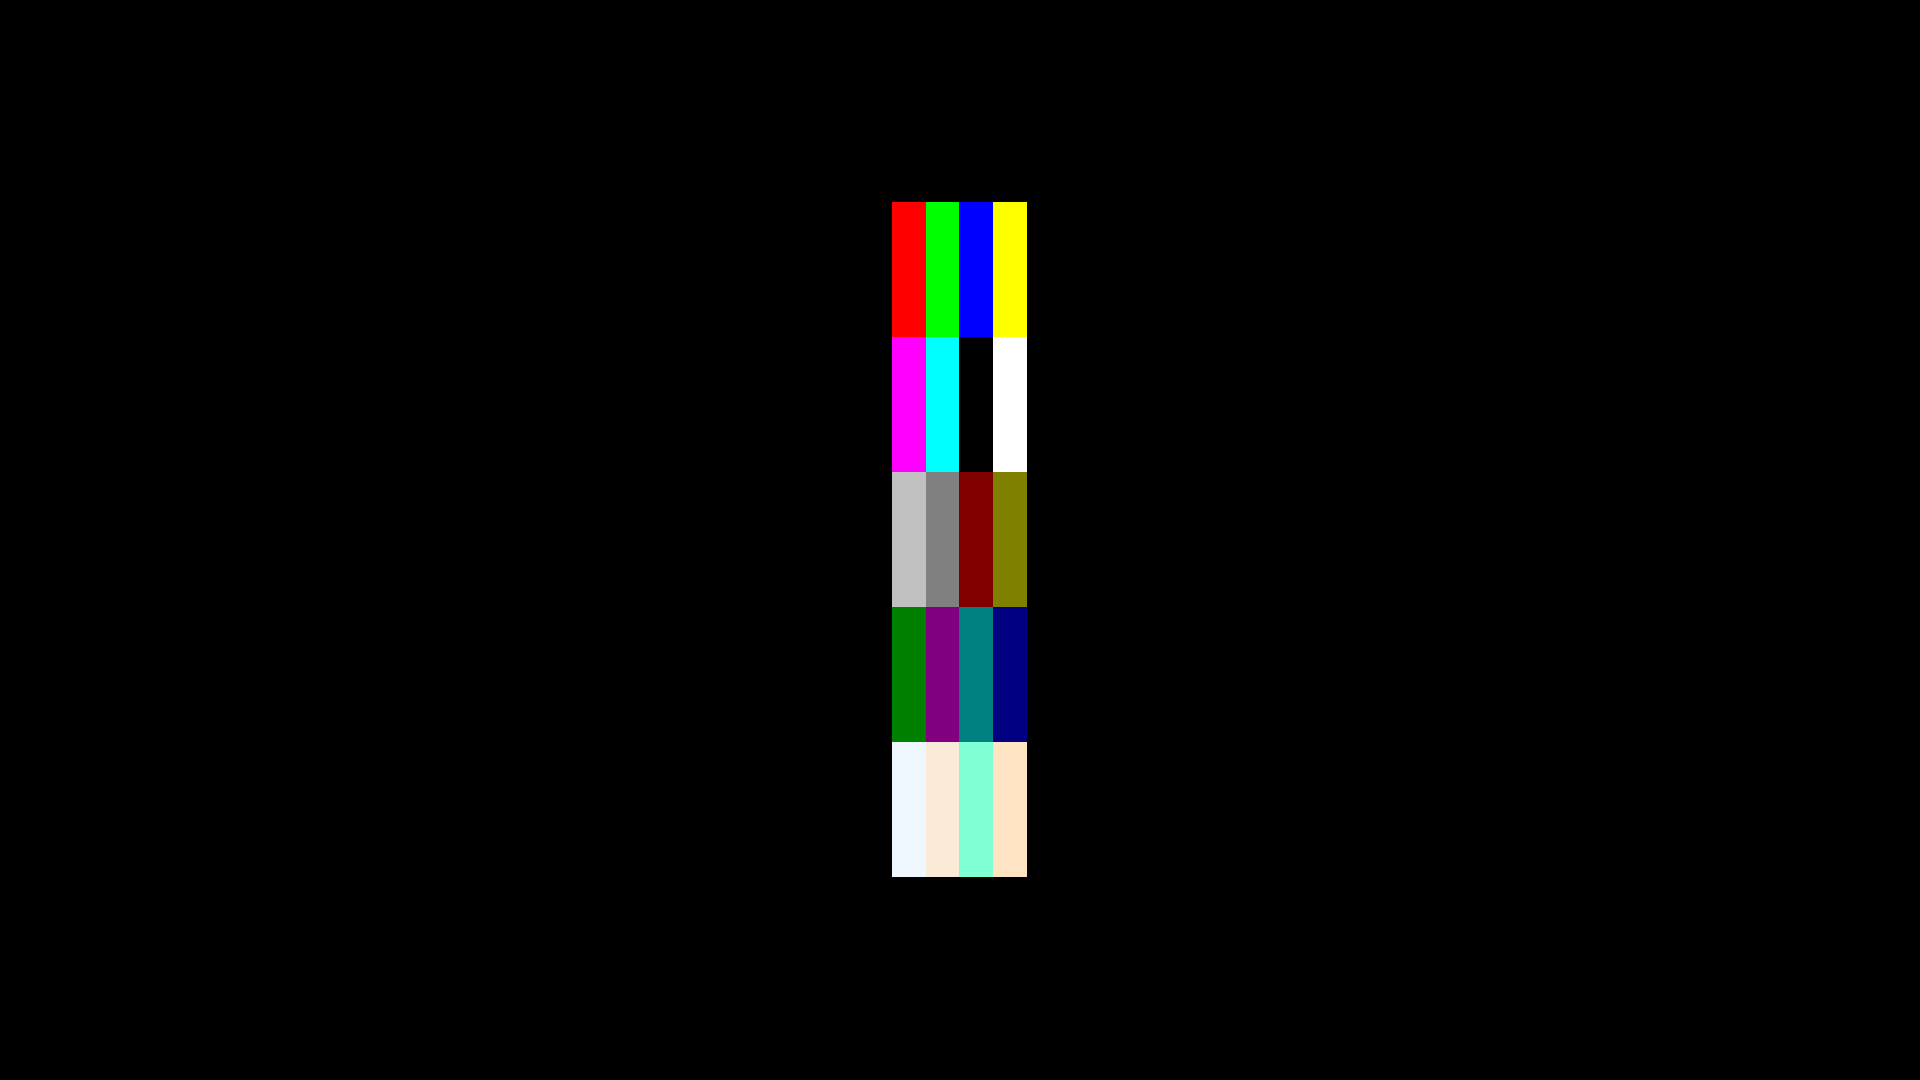
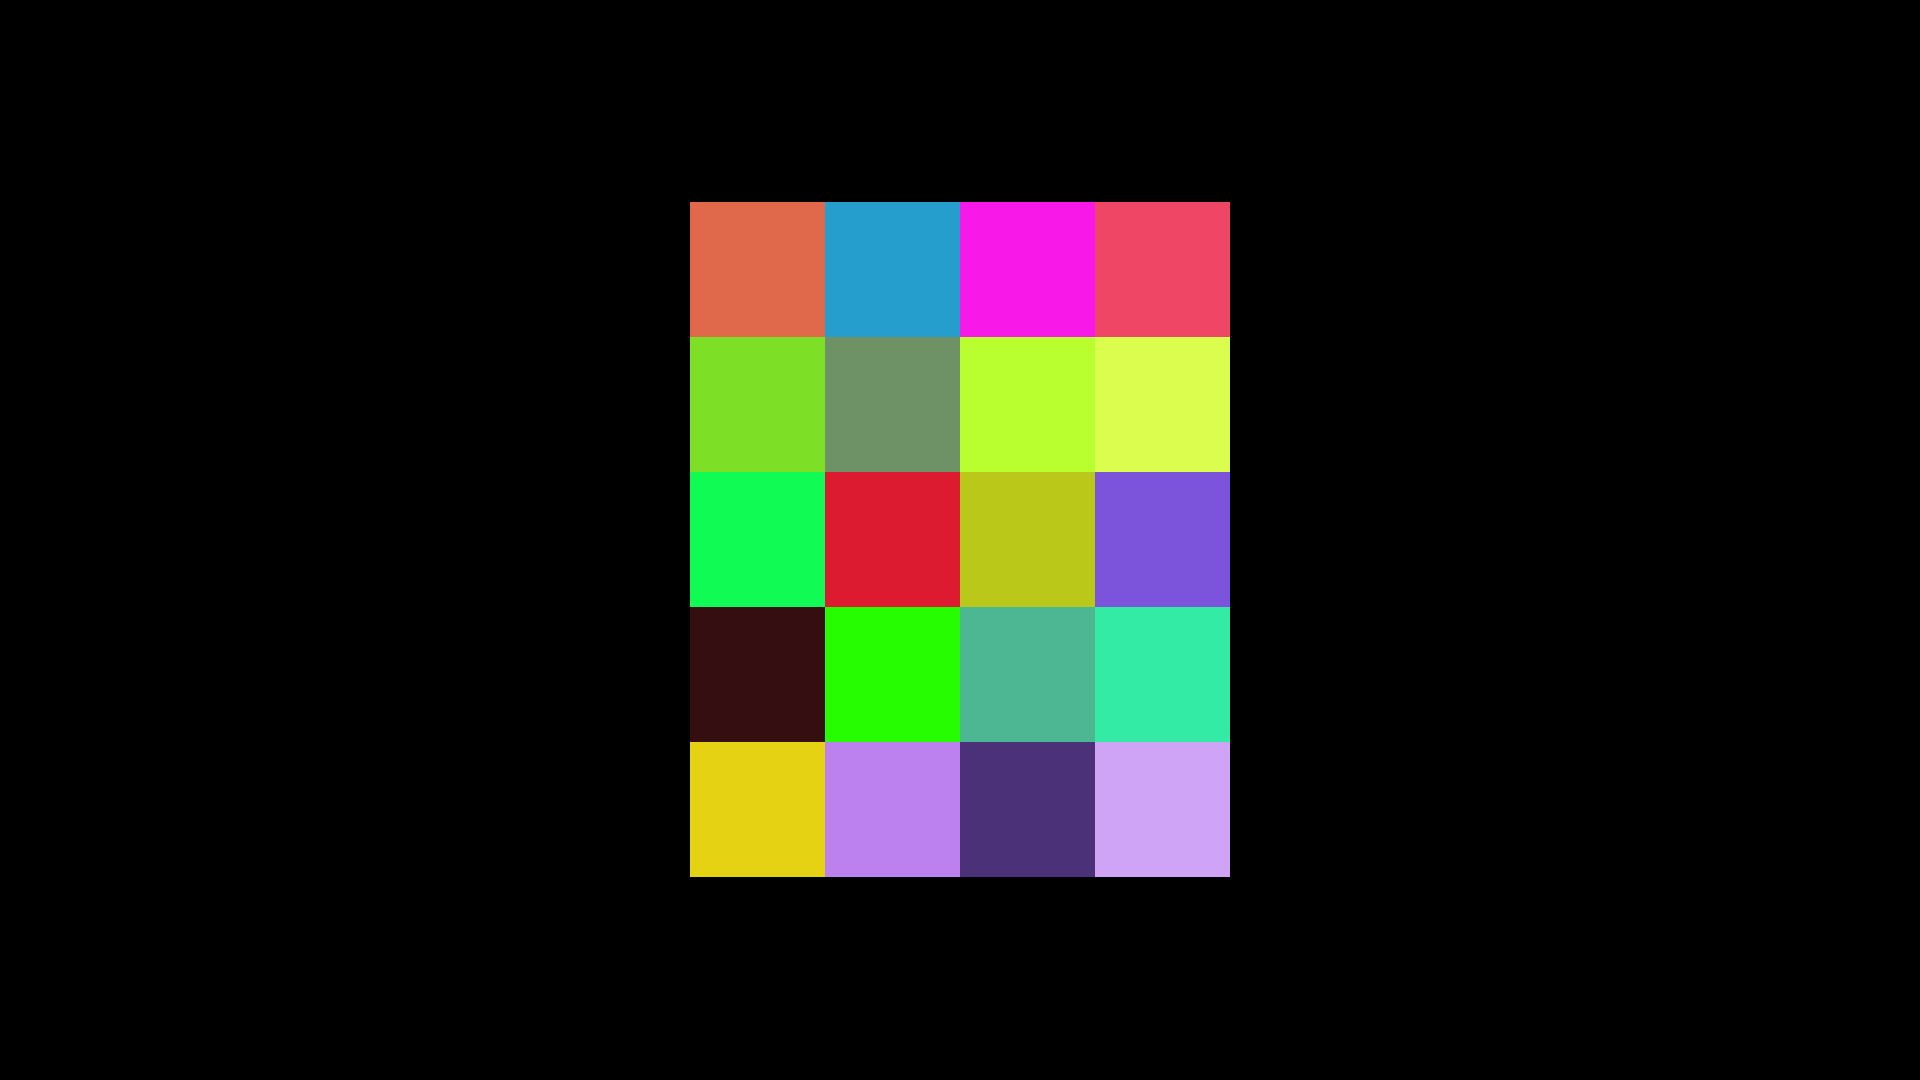
列表转化成整数并且上色

Changed region(s): [[0.3438, 0.1833, 0.6562, 0.825]]

diff --git a/testslice.py b/testslice.py
@@ -524,29 +524,34 @@ class UseRGB(Scene):
         return int(hex_string[1:], 16)
 
     def construct(self):
-        hex_list = [
-            ["#FF0000", "#00FF00", "#0000FF", "#FFFF00"],
-            ["#FF00FF", "#00FFFF", "#000000", "#FFFFFF"],
-            ["#C0C0C0", "#808080", "#800000", "#808000"],
-            ["#008000", "#800080", "#008080", "#000080"],
-            ["#F0F8FF", "#FAEBD7", "#7FFFD4", "#FFE4C4"],
-        ]
+        # hex_list = [
+        #     ["#FF0000", "#00FF00", "#0000FF", "#FFFF00"],
+        #     ["#FF00FF", "#00FFFF", "#000000", "#FFFFFF"],
+        #     ["#C0C0C0", "#808080", "#800000", "#808000"],
+        #     ["#008000", "#800080", "#008080", "#000080"],
+        #     ["#F0F8FF", "#FAEBD7", "#7FFFD4", "#FFE4C4"],
+        # ]
 
-        int_list = []
-        for sub_list in hex_list:
-            int_sub_list = []
-            for hex_string in sub_list:
-                int_sub_list.append(int(hex_string[1:], 16))
-                int_list.append(int_sub_list)
+        # int_list = []
+        # for sub_list in hex_list:
+        #     int_sub_list = []
+        #     for hex_string in sub_list:
+        #         int_sub_list.append(int(hex_string[1:], 16))
+        #         int_list.append(int_sub_list)
 
-        print(int_list)
-        # hex_list = int(*hex_list[1:], 16)
-        hex_list = self.convert_to_3d_rgb(int_list)
-        random_int = hex_list
-        print(random_int)
+        # print(int_list)
+        # # hex_list = int(*hex_list[1:], 16)
+        # hex_list = self.convert_to_3d_rgb(int_list)
+        # random_int = hex_list
+        # print(random_int)
+        random_int = [random.randint(0, 255) for _ in range(5 * 4 * 3)]
         
+        color_group = np.array(random_int).reshape(5,4,3)
+        random_int = color_group
+        print(random_int)
         image = ImageMobject(np.uint8(random_int))
         image.set_resampling_algorithm(RESAMPLING_ALGORITHMS["box"])
         image.height = 5
         self.add(image)
+
         return super().construct()
